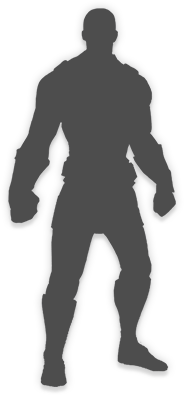
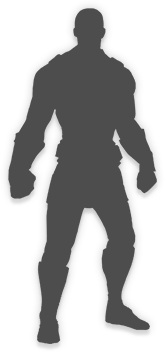
Hook up level, class, gold labels. Hide globes. Add close (x) button. Reduce size of doll.

diff --git a/content/panorama/scripts/inventory/inventory.js b/content/panorama/scripts/inventory/inventory.js
@@ -365,7 +365,30 @@ if (currentValues)
     PlaceAllItems(currentValues);
 }
 
+function numberWithCommas(x) {
+    return x.toString().replace(/\B(?=(\d{3})+(?!\d))/g, ",");
+}
+
 Game.KeyInventoryToggle = function()
 {
     $('#InventoryDialog').ToggleClass('hide');
+
+    // Update text fields.
+    var panel = $.GetContextPanel();
+    var playerId = Game.GetLocalPlayerID();
+    var heroId = Players.GetPlayerHeroEntityIndex(playerId);
+    var heroName = unitNamesToClass[Entities.GetUnitName(heroId)];
+
+    panel.FindChildTraverse('HeroClassLabel').text = heroName;
+    panel.FindChildTraverse('HeroLevelLabel').text = 'Level '+Entities.GetLevel(heroId);
+    panel.FindChildTraverse('HeroGoldLabel').text = numberWithCommas(Players.GetGold(playerId));
+};
+
+var unitNamesToClass= {
+    npc_dota_hero_dragon_knight: 'Warrior',
+    npc_dota_hero_omniknight: 'Paladin',
+    npc_dota_hero_bounty_hunter: 'Rogue',
+    npc_dota_hero_windrunner: 'Ranger',
+    npc_dota_hero_invoker: 'Mage',
+    npc_dota_hero_warlock: 'Sorcerer'
 };

diff --git a/content/panorama/styles/actionbar.css b/content/panorama/styles/actionbar.css
@@ -108,7 +108,7 @@
     margin-left:567px;
     
     /* Slight delay in, no delay out. Prevent flicker for bypass. */
-    transition:opacity 0.1s linear 0.5s;
+    transition:opacity 0.1s linear 0.1s;
     opacity:0.0;
 }
 .experience-bar-tooltip-container:hover .experience-bar-tooltip {
@@ -125,6 +125,7 @@
     horizontal-align:center;
     color:gray;
     font-size:11px;
+    transform: translateY(-3px);
 }
 
 .actionbar-button {
@@ -135,10 +136,23 @@
     wash-color:#ffffff;
 }
 #ActionBarEquipment {
-    margin-right:95px;
+    margin-right:85px;
     margin-bottom:15px;
+    padding-left:10px;
 }
 #ActionBarBackpack {
     margin-right:60px;
     margin-bottom:3px;
+}
+#ActionBarEquipmentHotkey {
+    color:#927561;
+    border:1px solid #927561;
+    border-radius:3px;
+    background-color:#272424;
+    padding:2px 2px 0 4px;
+    margin-top:-5px;
+    margin-left:-5px;
+    font-size:11px;
+    transform: translateY(5px);
+    box-shadow:  1px 0 8px 1px #92756144;
 }

diff --git a/content/panorama/styles/inventory/inventory.css b/content/panorama/styles/inventory/inventory.css
@@ -12,6 +12,14 @@
     font-size:23px;
     transform:translateY(-3px);
 }
+.inventory-container .close-label {
+    margin-top:24px;
+    margin-left:290px;
+    wash-color:#eeeeee;
+}
+.inventory-container .close-label:hover {
+    wash-color:#ff9999;
+}
 .backpackLabel, .levelLabel {
     color:#999;
 }
@@ -40,6 +48,8 @@
 }
 .inventory-dialog .doll {
     align:center center;
+    margin-bottom:10px;
+    border-bottom:1px solid #22222266;
 }
 
 .inventory-dialog .right {

diff --git a/content/panorama/scripts/mainhud.js b/content/panorama/scripts/mainhud.js
@@ -188,7 +188,7 @@ function UpdateUnitPanel() {
     // Hack
     $.Schedule(0.1, UpdateUnitPanel);
 
-    UpdateTargetUnitPanel()
+    UpdateTargetUnitPanel();
 
     var panel = $.GetContextPanel();
 

diff --git a/content/panorama/styles/mainhud.css b/content/panorama/styles/mainhud.css
@@ -8,7 +8,9 @@
     margin-left:50px;
     margin-top:5px;
 }
-
+.hide {
+    visibility: collapse;
+}
 .unitframe .hero {
     horizontal-align:left;
     margin-left:4px;
